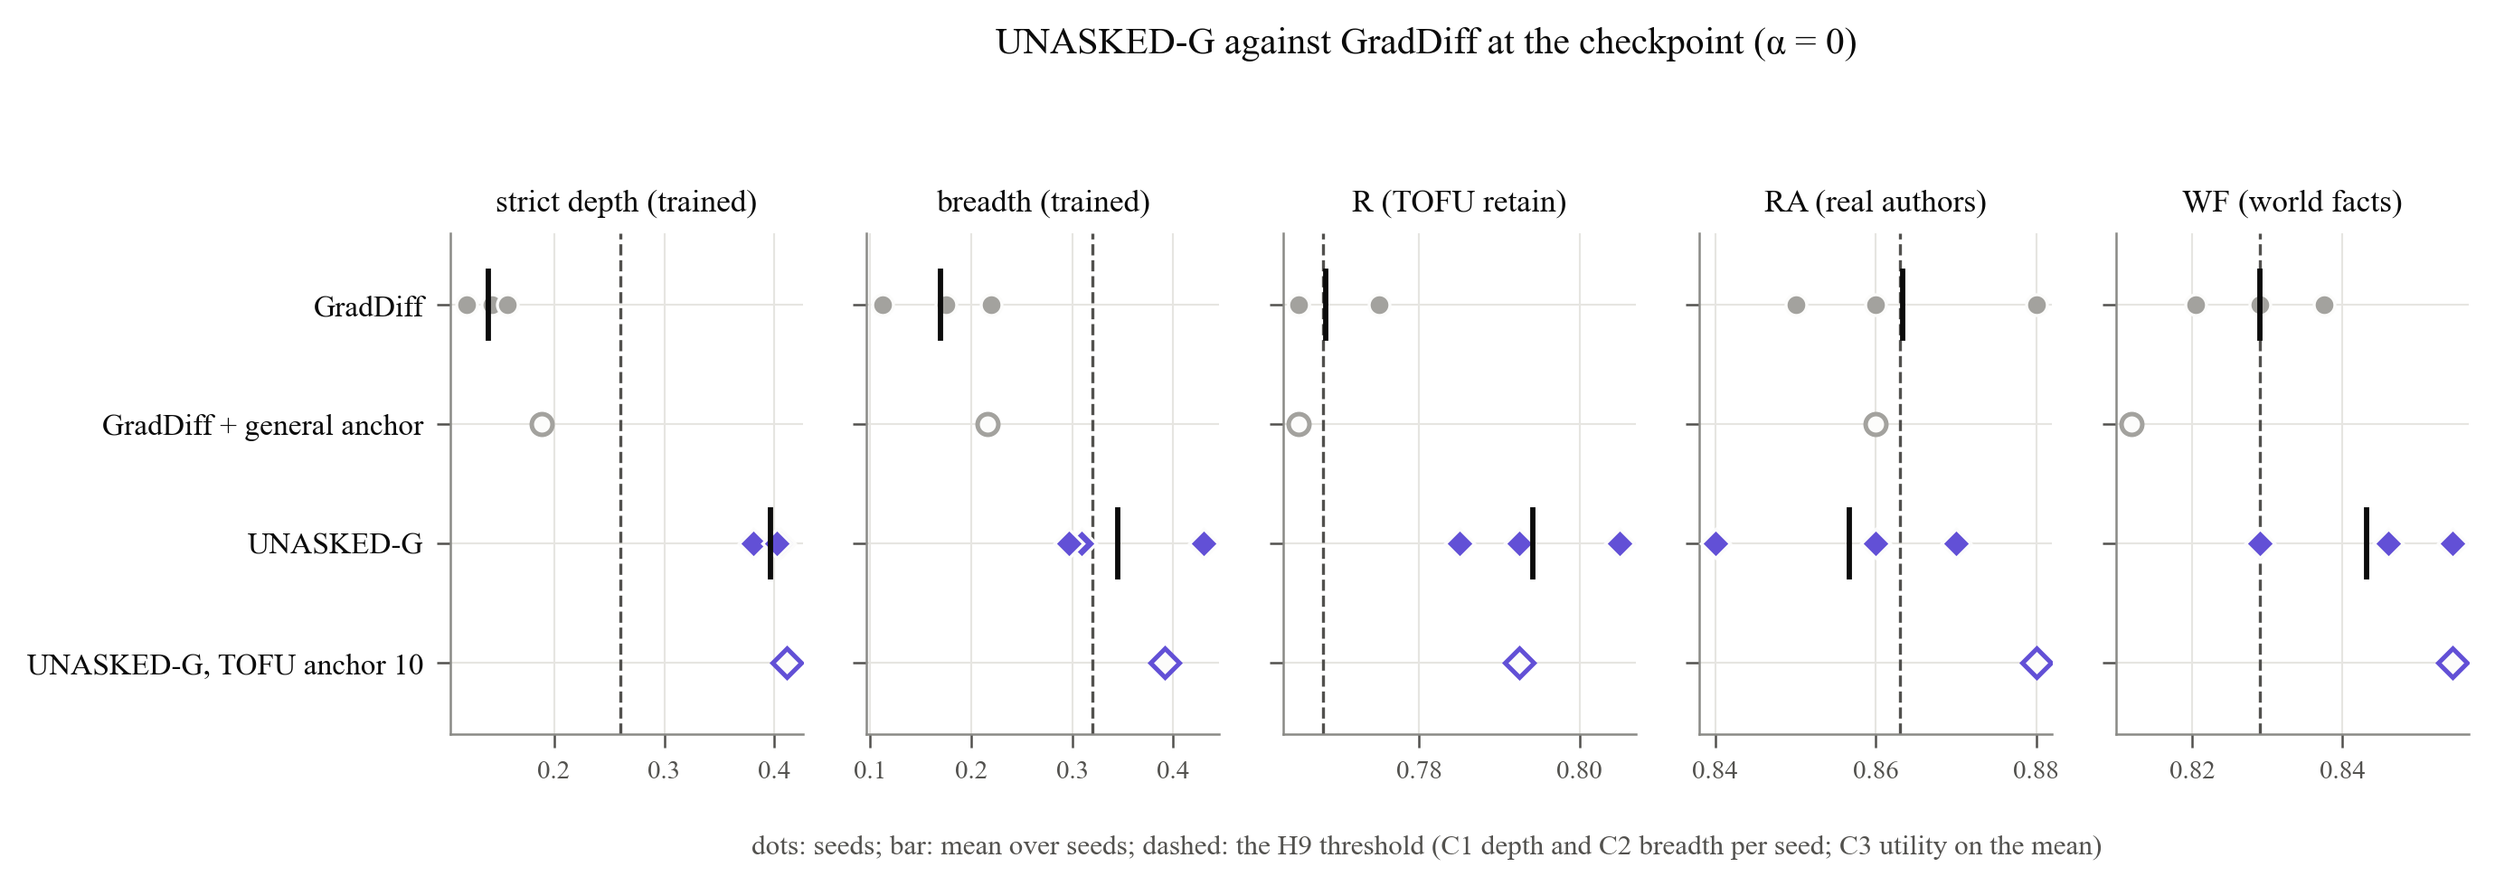
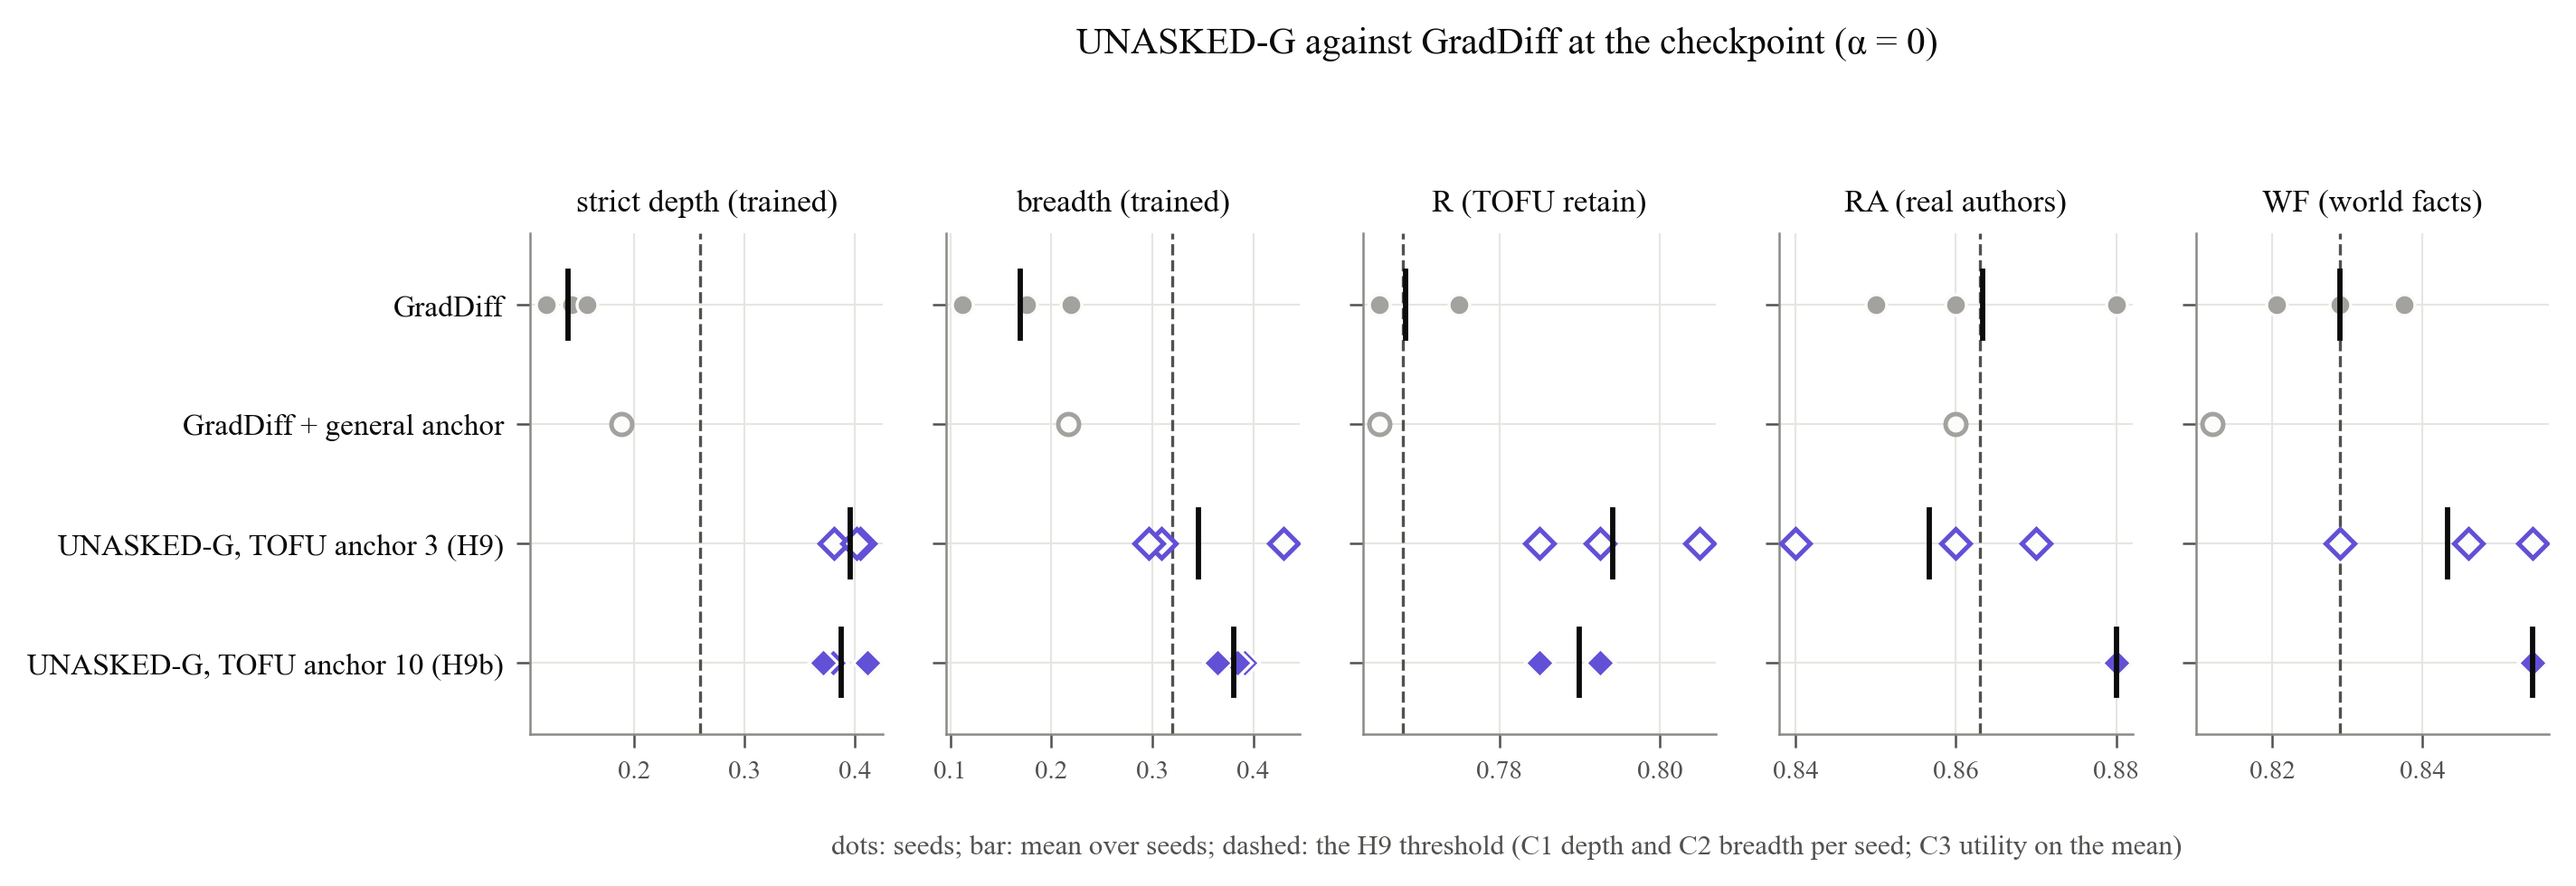
Figures: 18 marks the cited UNASKED-G (TOFU anchor 10); 20 plots it against the baselines and its damage controls

diff --git a/report/make_figures_v2.py b/report/make_figures_v2.py
@@ -198,7 +198,7 @@ def _strict_path(runs, split="trained"):
 
 
 def _depth_vs_general(method: str, label: str, fname: str, title: str,
-                      label_at=(-6, 9, "right")):
+                      label_at=(-6, 9, "right"), config: str = ""):
     """Strict depth against general knowledge: one of our methods beside the baselines' paths."""
     fig, ax = plt.subplots(figsize=(5.0, 3.3))
     marks = {"ga": "o", "npo": "s", "graddiff": "^"}
@@ -209,8 +209,8 @@ def _depth_vs_general(method: str, label: str, fname: str, title: str,
                 markeredgecolor="#fcfcfb", markeredgewidth=1.0)
         ax.annotate(f"{NAME[m]}", (x[-1], y[-1]), xytext=(5, 0), textcoords="offset points",
                     fontsize=7.5, va="center", color=INK2)
-    runs = sorted(d for d in STUDIES.glob(f"study_v2_{method}_1B_s*_lr*")
-                  if d.is_dir() and not d.name.split("_lr", 1)[1].count("_"))
+    runs = sorted(d for d in STUDIES.glob(f"study_v2_{method}_1B_s*_lr*{config}")
+                  if d.is_dir() and d.name.split("_lr", 1)[1].count("_") == (1 if config else 0))
     x, y = _strict_path(runs)
     ax.plot(x, y, "-", color=UNASKED_COLOR, lw=2, zorder=4)
     ax.plot(x[0], y[0], "D", color=UNASKED_COLOR, ms=6, zorder=5,
@@ -225,7 +225,9 @@ def _depth_vs_general(method: str, label: str, fname: str, title: str,
     # every control run of a seed shares one random direction: one damage path,
     # ordered by distance from M_full (scale x (1 + alpha))
     paths = {}
-    for d in sorted(STUDIES.glob(f"control_x*_v2_{method}_1B_s*_lr*")):
+    for d in sorted(STUDIES.glob(f"control_x*_v2_{method}_1B_s*_lr*{config}")):
+        if d.name.split("_lr", 1)[1].count("_") != (1 if config else 0):
+            continue
         if not d.is_dir():
             continue
         cfg = json.loads((d / "config.json").read_text())
@@ -282,6 +284,12 @@ def _depth_vs_general(method: str, label: str, fname: str, title: str,
 def fig16_unasked_depth_vs_general():
     _depth_vs_general("unasked", "UNASKED", "fig16_unasked_depth_vs_general.png",
                       "Strict depth against general-knowledge cost: checkpoints and α paths")
+
+
+def fig20_unaskedg_lam10_depth_vs_general():
+    _depth_vs_general("unaskedg", "UNASKED-G, anchor 10", "fig20_unaskedg_lam10_depth_vs_general.png",
+                      "UNASKED-G (TOFU anchor 10): above every baseline and its own damage control",
+                      label_at=(8, -11, "left"), config="_lam10")
 
 
 def fig19_unaskedg_depth_vs_general():
@@ -347,10 +355,10 @@ def fig18_h9():
         rows.append(("GradDiff + general anchor", rep["graddiff_g"], GRAY, "o", False))
     main = rep["groups"].get("lr3e-06")
     if main:
-        rows.append(("UNASKED-G", main["runs"], UNASKED_COLOR, "D", True))
-    extra = rep["groups"].get("lr3e-06_lam10")
-    if extra:
-        rows.append(("UNASKED-G, TOFU anchor 10", extra["runs"], UNASKED_COLOR, "D", False))
+        rows.append(("UNASKED-G, TOFU anchor 3 (H9)", main["runs"], UNASKED_COLOR, "D", False))
+    cited = rep["groups"].get("lr3e-06_lam10")
+    if cited:
+        rows.append(("UNASKED-G, TOFU anchor 10 (H9b)", cited["runs"], UNASKED_COLOR, "D", True))
     measures = [("strict_trained", "strict depth (trained)", C1_SEED),
                 ("breadth_trained", "breadth (trained)", C2_SEED),
                 ("R", "R (TOFU retain)", C3_MEAN["R"]),
@@ -396,4 +404,5 @@ if __name__ == "__main__":
     fig17_relearn_dose()
     fig18_h9()
     fig19_unaskedg_depth_vs_general()
+    fig20_unaskedg_lam10_depth_vs_general()
     print("wrote", sorted(p.name for p in OUT.glob("fig1[2-9]*.png")))
